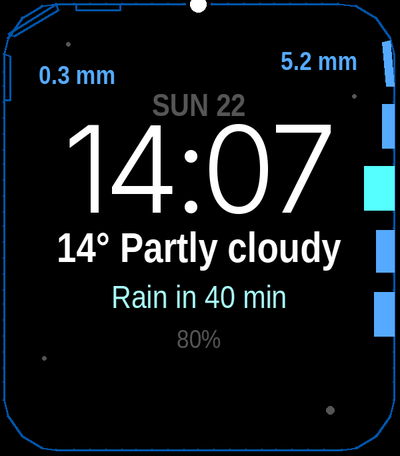
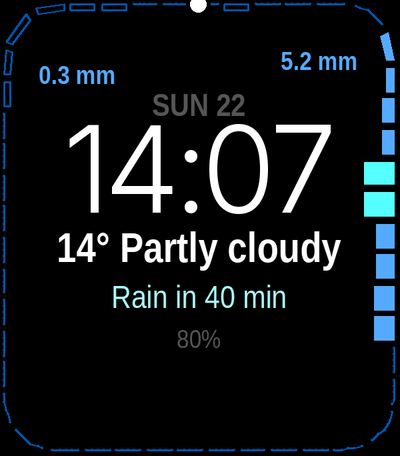
30-minute slots: faint dashes when dry, bars when rainy; drop time dots
Claude-Session: https://claude.ai/code/session_015HmYPjfyQ65s3v6ZviQxa9

diff --git a/tools/test_pack.js b/tools/test_pack.js
@@ -23,7 +23,7 @@ for (var i = 0; i < 120; i++) {
   hourly.uv_index.push(i < 100 ? 3.14 : null);
   hourly.is_day.push(1);
 }
-var m0 = now - (now % 900) - 900;
+var m0 = now - (now % 1800) - 900;
 var j = {
   current: { time: now - 120, temperature_2m: -1.5, weather_code: 3 },
   hourly: hourly,
@@ -39,7 +39,7 @@ assert.strictEqual(d.WxPrecip[1], 12);
 assert.strictEqual(d.WxProb[1], 255);
 assert.strictEqual(d.WxGust[0], 43);
 assert.strictEqual(d.WxUv[0], 31);
-assert.strictEqual(d.WxM15T0, m0 + 900);
+assert.strictEqual(d.WxM15T0, now - (now % 1800));
 assert.deepStrictEqual(d.WxM15, [2, 0, 0, 0, 0, 0, 0, 0]);
 assert.strictEqual(d.WxRise.length, 16);
 assert.strictEqual(d.WxCurTemp, -15);

diff --git a/src/pkjs/index.js b/src/pkjs/index.js
@@ -191,7 +191,8 @@ function pack(j) {
 
   var m = j.minutely_15;
   if (m && m.time && m.precipitation) {
-    var ms = startIndex(m.time, now);
+    // Start at the current half hour so the watch can pair quarters into 30-minute bars.
+    var ms = startIndex(m.time, now - (now % 1800));
     var slots = [];
     var known = false;
     for (var k = ms; k < m.time.length && slots.length < M15_SLOTS; k++) {

diff --git a/src/c/draw.c b/src/c/draw.c
@@ -1,12 +1,12 @@
 #include "contour.h"
 
-// The face: an hourly rain bar chart round the edge of the screen, starting at
-// the dot at the top ("now") and running clockwise into the coming hours.
-// Bars grow inward from a faint base line: the longer the bar, the more rain.
-// The colour grades the amount (light < 1 mm/h, medium 1-4, heavy >= 4), solid
-// bars are likely rain and outlined bars unlikely rain, and each rain spell is
-// labelled with its heaviest hour in mm (or inch). Small dots mark 00, 06, 12
-// and 18 o'clock.
+// The face: a rain bar chart round the edge of the screen in 30-minute slots,
+// starting at the dot at the top ("now") and running clockwise into the coming
+// hours. Dry slots are faint dashes along the edge; rainy slots grow a bar
+// inward: the longer the bar, the more rain. The colour grades the amount
+// (light < 1 mm/h, medium 1-4, heavy >= 4), solid bars are likely rain and
+// outlined bars unlikely rain, and each rain spell is labelled with its
+// heaviest hour in mm (or inch).
 
 #define FRAC 65536
 
@@ -27,7 +27,6 @@ typedef struct {
 #define RAIN_DEPTH 15
 #define CORNER_R 18
 #endif
-#define TICK_IN (RAIN_EDGE + RAIN_DEPTH + 5)
 #define BASE_MID (RAIN_EDGE + RAIN_DEPTH / 2)
 
 // Text in the middle, as drawn upright, so labels can keep clear of it.
@@ -262,58 +261,65 @@ static void draw_rain_label(GContext *ctx, GRect b, const Theme *th, time_t now,
   }
 }
 
+// Rain rate (0.1 mm per hour) for the half hour starting at `slot`. The next
+// two hours use the 15-minute data when it covers them; later slots use the
+// hourly forecast.
+static int slot_rain(time_t slot, bool *likely) {
+  int k = wx_index_at(slot);
+  uint8_t pr = k >= 0 ? g_wx.prob[k] : 0;
+  *likely = pr == PROB_UNKNOWN || pr >= 50;
+  if (g_wx.m15_count) {
+    int32_t d = (int32_t)(slot - (time_t)g_wx.m15_t0);
+    if (d >= 0 && d % 900 == 0 && d / 900 + 1 < g_wx.m15_count) {
+      int i = d / 900;
+      return (g_wx.m15[i] + g_wx.m15[i + 1]) * 2;   // two quarters -> per hour
+    }
+  }
+  return k >= 0 ? g_wx.precip[k] : 0;
+}
+
 static void draw_track(GContext *ctx, GRect b, const Theme *th, time_t now) {
   const int range = wx_range_hours();
   const int range_s = range * 3600;
-  const int steps = range * PBL_IF_ROUND_ELSE(6, 4);
-  const int shown = steps * g_view.reveal / 1000;
-
   graphics_context_set_antialiased(ctx, true);
 
-  // Time dots at 00, 06, 12 and 18 local time, just inside the line.
-  graphics_context_set_fill_color(ctx, th->dim);
-  for (time_t t = now - now % 3600 + 3600; t < now + range_s; t += 3600) {
-    struct tm *tm = localtime(&t);
-    if (tm->tm_min != 0 || tm->tm_hour % 6 != 0) continue;
-    int32_t f = frac_of(t, now, range_s);
-    if (f * 1000 / FRAC > g_view.reveal) continue;
-    graphics_fill_circle(ctx, track_pt(b, f, TICK_IN), tm->tm_hour == 0 ? 2 : 1);
-  }
+  // 30-minute slots, aligned to the clock (:00 and :30). Each slot is a faint
+  // dash along the edge; where rain is coming, a bar grows inward instead.
+  const int32_t slot_gap = FRAC / (range * 2) * 12 / 100;
+  time_t slot = now - now % 1800;
+  for (; slot < now + range_s; slot += 1800) {
+    time_t s0 = slot < now ? now : slot;
+    time_t s1 = slot + 1800 > now + range_s ? now + range_s : slot + 1800;
+    int32_t f0 = frac_of(s0, now, range_s) + (slot < now ? 0 : slot_gap);
+    int32_t f1 = frac_of(s1, now, range_s) - slot_gap;
+    if (f1 <= f0) continue;
+    if (f1 * 1000 / FRAC > g_view.reveal) break;
 
-  // A faint base line round the edge, so dry hours still read as "dry".
-  graphics_context_set_stroke_color(ctx, th->base);
-  graphics_context_set_stroke_width(ctx, 1);
-  GPoint prev = track_pt(b, 0, RAIN_EDGE);
-  for (int s = 1; s <= shown; s++) {
-    GPoint p = track_pt(b, (int32_t)s * FRAC / steps, RAIN_EDGE);
-    graphics_draw_line(ctx, prev, p);
-    prev = p;
-  }
-
-  // One bar per hour, growing inward from the edge.
-  int first = wx_index_at(now);
-  if (first >= 0) {
-    const int32_t gap = FRAC / range * 15 / 100;   // space between bars
-    for (int k = first; k < g_wx.count; k++) {
-      time_t h0 = (time_t)g_wx.t0 + (time_t)k * 3600, h1 = h0 + 3600;
-      if (h0 >= now + range_s) break;
-      int len = bar_len(g_wx.precip[k]);
-      if (!len) continue;
-      int32_t f0 = frac_of(h0 < now ? now : h0, now, range_s) + (h0 < now ? 0 : gap);
-      int32_t f1 = frac_of(h1 > now + range_s ? now + range_s : h1, now, range_s) - gap;
-      if (f1 <= f0) continue;
-      if (f1 * 1000 / FRAC > g_view.reveal) continue;
-      bool likely = g_wx.prob[k] == PROB_UNKNOWN || g_wx.prob[k] >= 50;
-      // Colour = how much; solid = likely (50 % or more), outline = unlikely.
-      GColor c = rain_color(th, g_wx.precip[k]);
-      graphics_context_set_fill_color(ctx, c);
-      graphics_context_set_stroke_color(ctx, c);
+    bool likely;
+    int rate = slot_rain(slot, &likely);   // 0.1 mm per hour
+    int len = bar_len(rate);
+    if (!len) {
+      graphics_context_set_stroke_color(ctx, th->base);
       graphics_context_set_stroke_width(ctx, 1);
-      draw_quad(ctx, track_pt(b, f0, RAIN_EDGE), track_pt(b, f1, RAIN_EDGE),
-                track_pt(b, f1, RAIN_EDGE + len), track_pt(b, f0, RAIN_EDGE + len), likely);
+      GPoint prev = track_pt(b, f0, RAIN_EDGE);
+      const int n = 4;                      // follow the curve of the edge
+      for (int i = 1; i <= n; i++) {
+        GPoint p = track_pt(b, f0 + (f1 - f0) * i / n, RAIN_EDGE);
+        graphics_draw_line(ctx, prev, p);
+        prev = p;
+      }
+      continue;
     }
+    // Colour = how much; solid = likely (50 % or more), outline = unlikely.
+    GColor c = rain_color(th, rate);
+    graphics_context_set_fill_color(ctx, c);
+    graphics_context_set_stroke_color(ctx, c);
+    graphics_context_set_stroke_width(ctx, 1);
+    draw_quad(ctx, track_pt(b, f0, RAIN_EDGE), track_pt(b, f1, RAIN_EDGE),
+              track_pt(b, f1, RAIN_EDGE + len), track_pt(b, f0, RAIN_EDGE + len), likely);
   }
 
+  int first = wx_index_at(now);
   // Amount at the heaviest hour of each rain spell (up to 4 spells).
   if (first >= 0 && g_view.reveal >= 1000) {
     int labels = 0, peak = -1, k0 = -1;

diff --git a/tools/preview/stub.c b/tools/preview/stub.c
@@ -48,7 +48,7 @@ static void fake(time_t now, int scenario) {
     if (i >= 3 && i <= 7) { g_wx.precip[i] = (uint8_t)(i == 5 ? 52 : i * 4); g_wx.prob[i] = 80; g_wx.code[i] = 61; }
     if (i >= 20 && i <= 22) { g_wx.precip[i] = 3; g_wx.prob[i] = 35; g_wx.code[i] = 51; }
   }
-  g_wx.m15_t0 = (uint32_t)(now - now % 900); g_wx.m15_count = 8;
+  g_wx.m15_t0 = (uint32_t)(now - now % 1800); g_wx.m15_count = 8;
   if (scenario == 0) g_wx.m15[3] = 2;
   for (int d = 0; d < 4; d++) {
     time_t mid = now - now % 86400 + d * 86400;

diff --git a/README.md b/README.md
@@ -13,11 +13,13 @@ fonts, so the lettering differs a little from the watch._
 
 ## How to read it
 
-- **A blue bar chart** runs all the way round the edge, one bar per hour,
+- **A blue bar chart** runs all the way round the edge in 30-minute slots,
   starting at the dot at the top (now) and running clockwise. Round 2 shows
   24 hours. On Time 2 you can choose 12, 24 or 48 hours.
-- **Bars** grow inward from a faint base line: the longer the bar, the more
-  rain (full length at 4 mm/h).
+- **Dry slots** are faint dashes along the edge, so every half hour is visible
+  even without rain. **Rainy slots** grow a bar inward instead: the longer the
+  bar, the more rain (full length at 4 mm/h). The next two hours use
+  Open-Meteo's 15-minute data, and later slots use the hourly forecast.
 - **Colour grades the amount**, so you can tell at a glance:
 
   | Theme | light (< 1 mm/h) | medium (1 to 4 mm/h) | heavy (4 mm/h or more) |
@@ -32,7 +34,6 @@ fonts, so the lettering differs a little from the watch._
 - **Rain amounts**: each rain spell is labelled with its heaviest hour, like
   `2.8 mm` (or `.11 in`), placed as close to the longest bar as it fits beside
   the text.
-- **Small dots** mark 00, 06, 12 and 18 o'clock. The midnight dot is bigger.
 - **Middle**: the date, the time in large Inter Light digits, the current temperature and sky, then a
   smart line, then an optional extra line (battery, steps or heart rate).
 - **Wrist flick**: a cursor walks along the line, and the middle shows the
